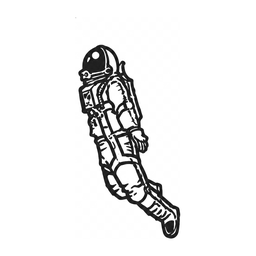
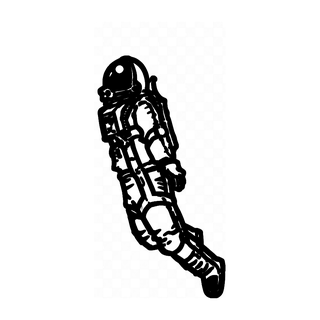
fix: polish the "made with love" footer
- Remove the dotted underline under "Nathan".
- Make the external-link arrow black (was muted gray) to match the text.
- Reprocess Nathan's astronaut to solid black (contrast-boosted + slightly
  thickened so it doesn't read gray when downscaled) and remove stray specks;
  render it a bit larger.

Claude-Session: https://claude.ai/code/session_01AXCmVuyxuLsBEB9TNq7XiE

Changed region(s): [[0.2812, 0.1562, 0.7188, 0.9375]]

diff --git a/components/about-section.tsx b/components/about-section.tsx
@@ -36,13 +36,11 @@ export function AboutSection() {
         <span>Made with</span>
         <span aria-hidden="true">❤️</span>
         <span>by</span>
-        <span className="font-semibold underline decoration-dotted underline-offset-2 group-hover:decoration-solid">
-          Nathan
-        </span>
+        <span className="font-semibold">Nathan</span>
         {/* Nathan's black & white astronaut (public/astronaut.png). */}
         {/* eslint-disable-next-line @next/next/no-img-element */}
-        <img src="/astronaut.png" alt="" aria-hidden="true" className="h-7 w-auto" />
-        <ArrowUpRight className="text-muted-foreground size-3.5" />
+        <img src="/astronaut.png" alt="" aria-hidden="true" className="h-9 w-auto" />
+        <ArrowUpRight className="size-4" />
       </a>
 
       <p className="text-muted-foreground text-center text-xs">